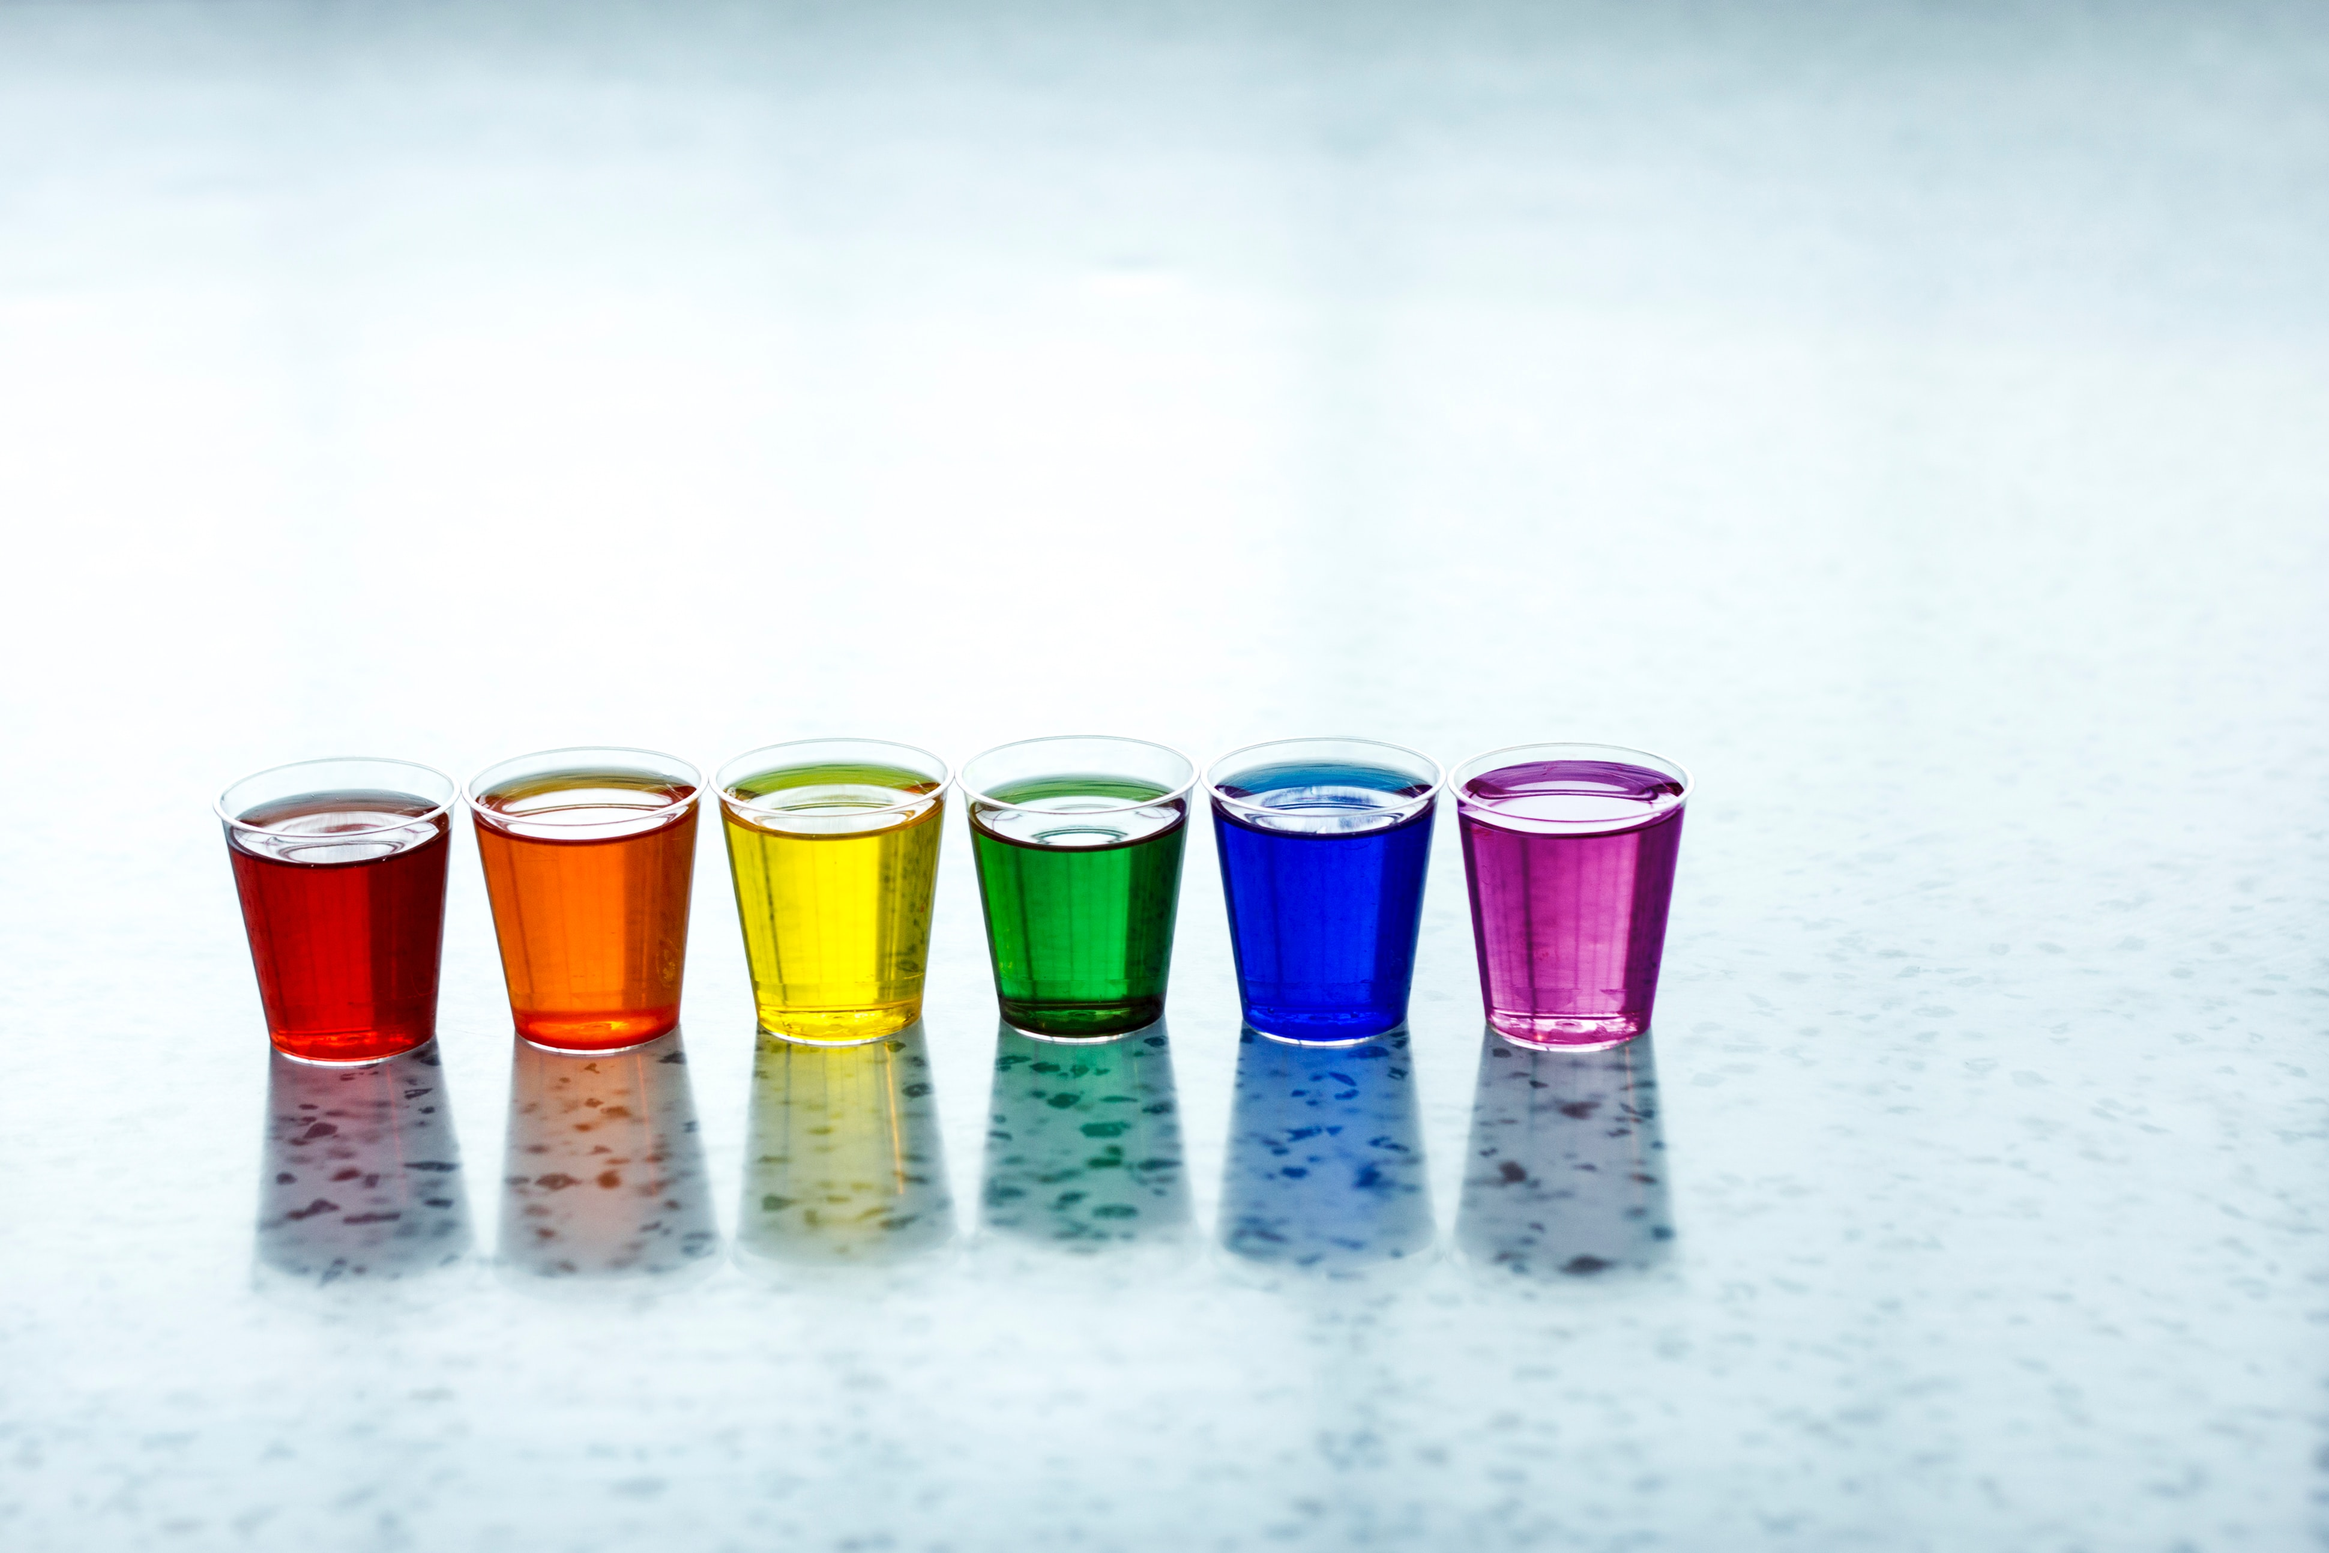
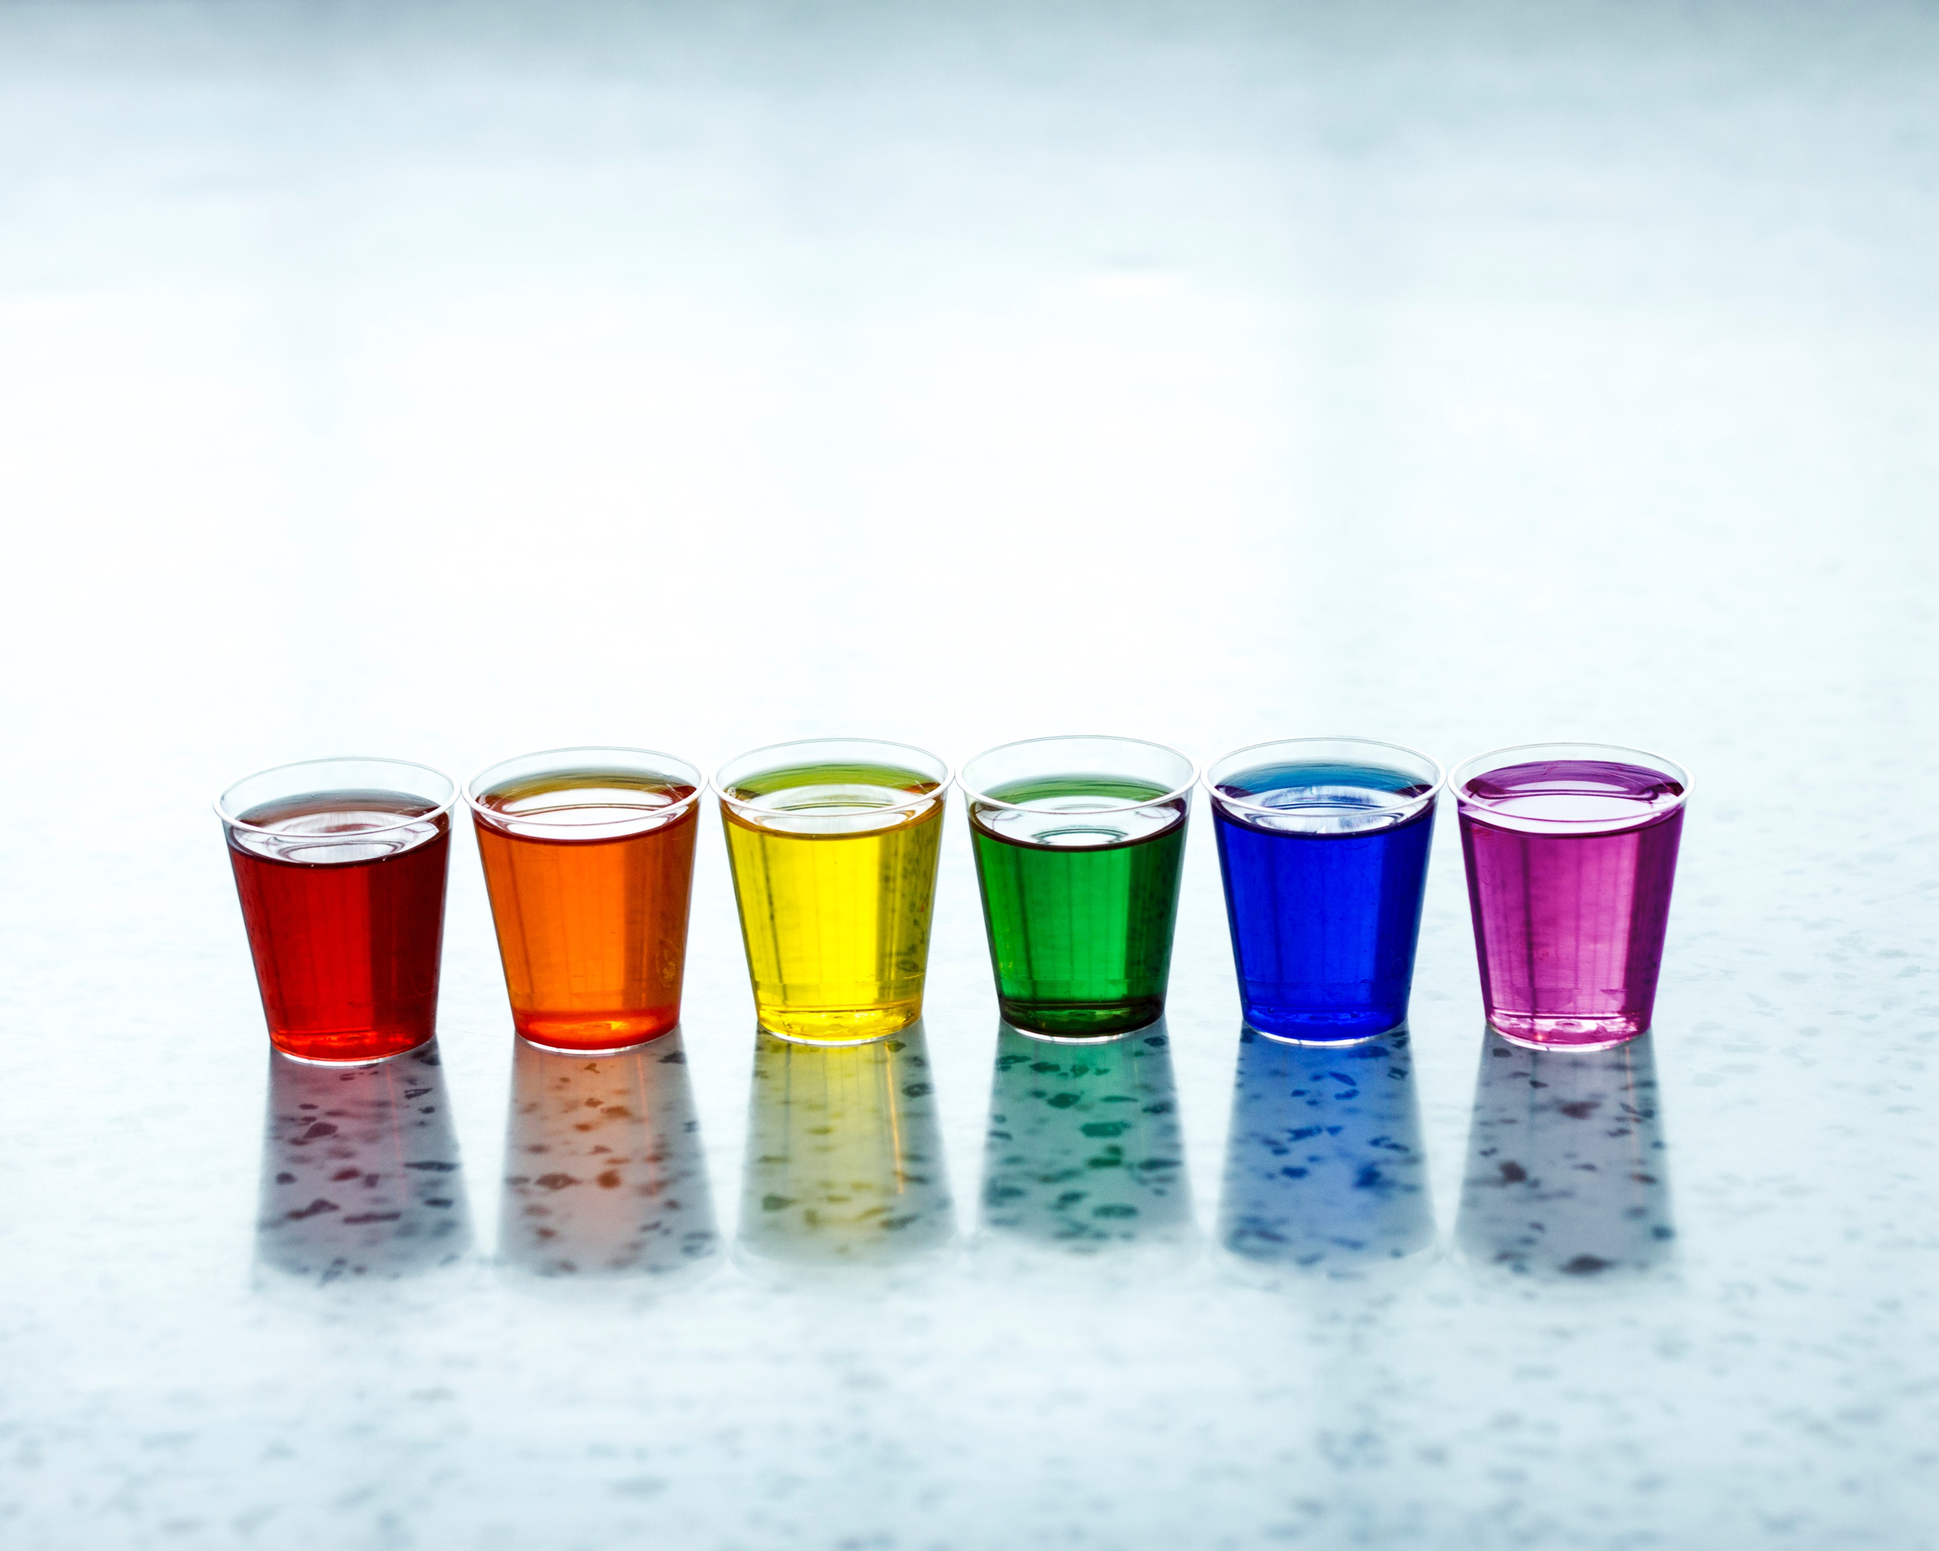
resized photos, added bg img to category

diff --git a/src/pages/Category/Category.js b/src/pages/Category/Category.js
@@ -45,9 +45,11 @@ class Category extends React.Component {
 
    render() {
         return (
-            <div id="extra">
-                <div className="container">
-                return {this.createTable()}
+            <div className="wrapper style1">
+                <div id="extra">
+                    <div className="container">
+                        {this.createTable()}
+                    </div>
                 </div>
             </div>
                     
